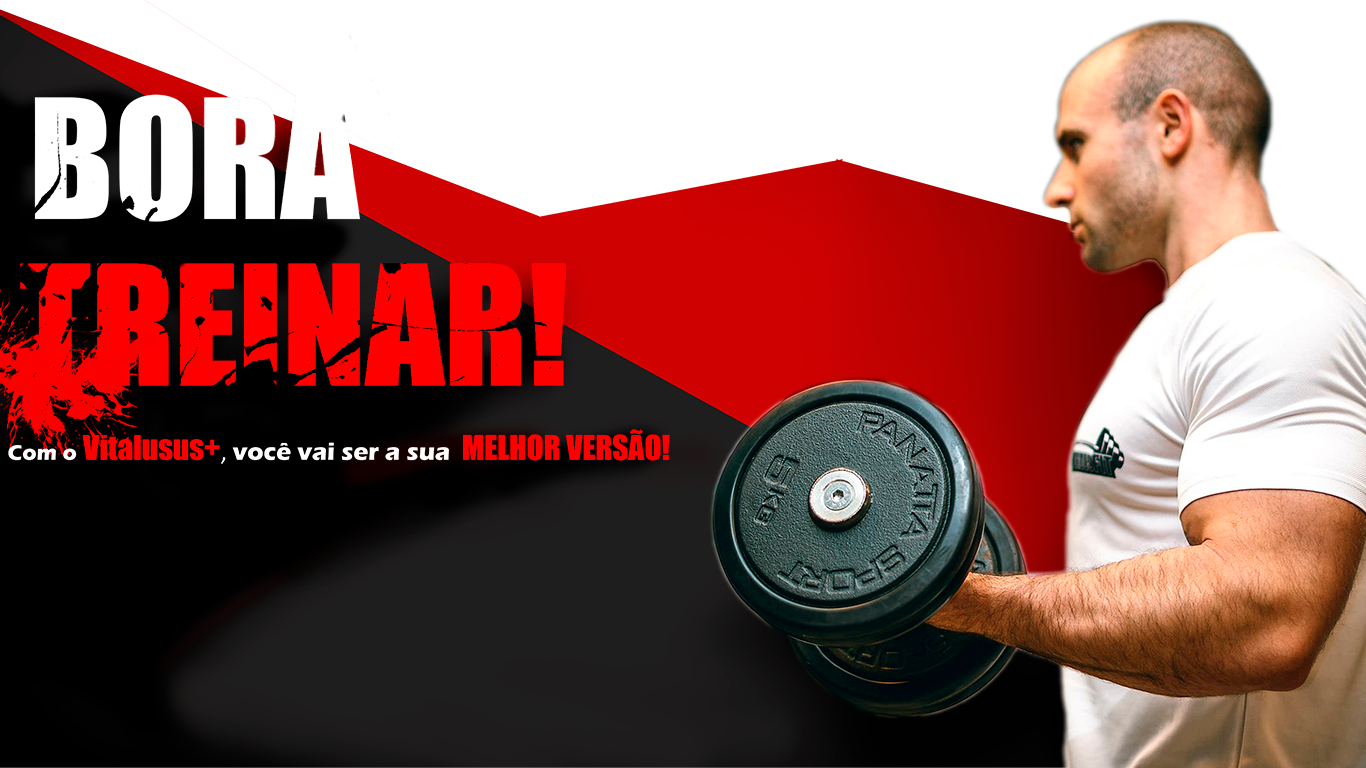
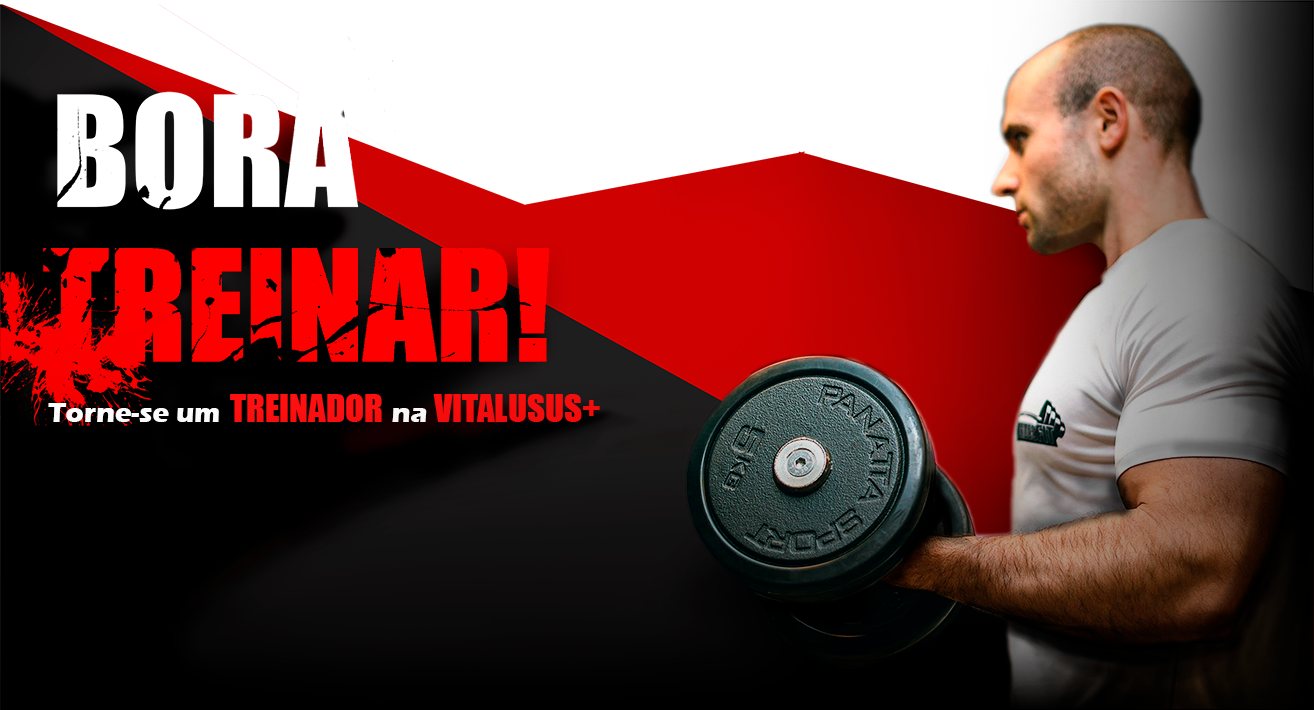
comecei a fazer a nova página index.html

diff --git a/VitalususPlus/src/main/resources/templates/index.html b/VitalususPlus/src/main/resources/templates/index.html
@@ -1,8 +1,10 @@
 <!DOCTYPE html>
-<html lang="pt-br">
+<html lang="pt-br" class="inicioHtml">
 
 <head>
     <meta charset="UTF-8">
+    <link rel="shortcut icon" href="/logo.ico" type="image/x-icon">
+    <link rel="shortcut icon" href="logo.ico" type="image/x-icon">
     <meta http-equiv="X-UA-Compatible" content="IE=edge">
     <meta name="viewport" content="width=device-width, initial-scale=1.0">
     <link rel="stylesheet" href="/Controller-CAD-LOG.css">
@@ -11,188 +13,35 @@
         href="https://fonts.googleapis.com/css2?family=Material+Symbols+Outlined:opsz,wght,FILL,GRAD@20..48,100..700,0..1,-50..200" />
     <link rel="stylesheet"
         href="https://fonts.googleapis.com/css2?family=Material+Symbols+Outlined:opsz,wght,FILL,GRAD@24,400,0,0" />
-    <title>Home Treinador</title>
+    <title>Vitlusus+ | Início</title>
 
  
 </head>
 
-<body onload="loading()">
+<body onload="loading()" class="inicioBody" onloadstart="setTopo()">
     <div class="carrega2">
         <div class="pre"></div>
     </div>
   <header>
-    <div class="imgLogo">
-        <img src="/Logo.png">
-      </div>
-      </div>
+        <img src="/Logo.png" class="imgLogo">
     </header>
+
     <div class="site">
-    <main class="main">
-     
 
-        <div class="content">
-
-            <div class="Rolls">
-
-              <input type="radio" name="roll" id="roll1" class="rollpequeno" checked="checked">
-
-              <input type="radio" name="roll" id="roll2" class="rollpequeno">
-
-              <input type="radio" name="roll" id="roll3" class="rollpequeno">
-
-              <input type="radio" name="roll" id="roll4" class="rollpequeno">
-
-
-                <div class="slide s1">
-
-                    <video alt="" loop id="auto" autoplay muted>
-                        <source src="/Run.mp4" type="video/mp4">
-                    </video>
-
-                    <div class="p1">
-
-                        <p>Aqui, você terá a oportunidade </p>
-
-                        <p>de melhorar sua vida atráves da</p>
-
-                        <p>prática de atividades físicas.</p>
-
-                    </div>
-
-                </div>
-
-                <div class="slide">
-
-                    <video alt="" loop id="auto" autoplay muted>
-                        <source src="/Medical.mp4" type="video/mp4">
-                    </video>
-
-                    <div class="p1">
-
-                        <p>Temos como objetivo principal</p>
-
-                        <p>garantir a saúde e bem-estar de</p>
-
-                        <p>todos.</p>
-
-                    </div>
-
-                </div>
-
-                <div class="slide">
-
-                    <video alt="" loop id="auto" autoplay muted >
-                        <source src="/Maratona.mp4" type="video/mp4">
-                    </video>
-
-                    <div class="p1">
-
-                        <p>As atividades físicas reduzem a</p>
-
-                        <p>mortalidade por todas as causas</p>
-
-                        <p>com uma redução de 19% a 21%</p>
-
-                    </div>
-
-                </div>
-
-                <div class="slide">
-
-                    <video alt="" loop id="auto" autoplay muted >
-                        <source src="/Treinador.mp4" type="video/mp4">
-                    </video>
-
-                    <div class="p1">
-
-                        <p>Você terá o benefício de ter </p>
-
-                        <p>treinadores especializados te</p>
-
-                        <p>ajudando!</p>
-
-                    </div>
-
-               
-
-                
-                </div>
-            </div>
+<div class="mulherDosBiceps">
+    <img src="/woman-teaching-biceps.png">
 </div>
 
-            <div class="navigation">
-
-                <label class="bar1" for="roll1"></label>
-
-                <label class="bar2" for="roll2"></label>
-
-                <label class="bar3" for="roll3"></label>
-
-                <label class="bar4" for="roll4"></label>
-
-            </div><!--fecha navigation-->
-            <!--fecha slide-->
-           
-         <!--fecha container-->
+    <div class="mulherDosBicepsContainer">
+        <img src="/backgroundVitalusus.jpg">
+        <div class="fundoTexto"></div>
+    </div>
         
-    </main>
+<div class="finalIndex">
+    <div class="fundoTexto"></div>
+    <img src="/poster1.png">
+</div>
 
-    <div class="escondido" id="SobreO">
-        <div class="p2">
-            <p class="p3">
-                Uma Rede para os <br />
-                interessados em <br />
-                uma vida mais  <br />
-                saudável </p>
-        </div>
-
-
-        <div class="LogoAjust">
-        <img src="/Logo.png" alt="">
-    </div>
-
-        <div class="Vitalusus">
-        <h2 class="a1">Vita</h2>
-        <h2 class="a2">Lusus+</h2>
-    </div>
-
-    </div>
-    <div class="comecar" >
-<div class="ajustH1">
-        
-    </div>
-        <div class="p3">
-            <p class="p4">
-                Para começar a <strong >v i v e r</strong><br/> de
-                forma mais saudável<br/> baixe
-                o nosso aplicativo<br/> para<br/>
-                <strong class="dispositivosStrong">____Android e IOS____</strong></p>
-                <a href="https://play.google.com/store/search?q=Vitalusus%2B&c=apps&hl=pt_BR&gl=US&pli=1">
-                <img src="">
-                </a>
-        </div>
-        <div class="PlayStore">
-            <a href="https://play.google.com/store/search?q=Vitalusus%2B&c=apps&hl=pt_BR&gl=US">
-            <img src="/playstore.png" alt="">
-        </a>
-        </div>
-        <div class="appStore">
-            <a href="https://www.apple.com/br/search/Vitalusus%2B?src=globalnav">
-            <img src="/maca.png">
-        </a>
-        </div>
-
-        <div class="treinadorAjust">
-        <h1>Como ser Treinador</h1>
-        <p class="p4">
-            Para ser um treinador, você <br />
-            precisa  ter um CREF e então
-             <br />
-            se <a class="fazerloginIndex"th:href="@{/Vitalusus-2h/Clientes/cadastrar}">cadastrar</a> ou  <a class="fazerloginIndex" th:href="@{/Vitalusus-2h/Clientes/login}"><span  class="destacar">fazer o </span><span class="destacar2">login</span></a> <br />
-            em nosso site</p>
-            </p>
-        </div>
-    </div>
 </div>
 </body>
 <script>
@@ -216,5 +65,12 @@
       document.getElementsByClassName("carrega2")[0].style.display="none";
       document.getElementsByClassName("site")[0].style.display="block";
     }
+    function setTopo(){
+        var _carrega = document.getElementsByClassName("carrega2")[0];
+        if(_carrega.style.display!="none"){
+            $(window).scrollTop(0);
+        }
+}
+$(window).bind('scroll', setTopo);
   </script>
 </html>

diff --git a/VitalususPlus/src/main/resources/static/Controller-CAD-LOG.css b/VitalususPlus/src/main/resources/static/Controller-CAD-LOG.css
@@ -9,6 +9,15 @@ html,body{
     padding: 0;
     box-sizing: border-box;
 }
+.inicioBody{
+    width: 100%;
+    height:100%;
+    background: #030303;
+}
+.inicioHtml{
+    width: 100%;
+    height:624.86979166667%;
+}
 body {
     background: rgb(0,0,0);
     background: linear-gradient(324deg,rgba(0, 0, 0, 0.938) 20%, rgba(0, 0, 0, 0.377) 96%),url("backgroundVitalusus.jpg");
@@ -69,6 +78,7 @@ footer {
 }
 .carrega{
     position: absolute;
+    position: fixed;
     width: 100%;
     height: 100%;
     background-color: rgb(12,12,12);
@@ -80,6 +90,7 @@ footer {
 .carrega2{
     top: 0%;
     position: absolute;
+    position: fixed;
     width: 100%;
     height: 100%;
     background-color: rgb(12,12,12);
@@ -92,6 +103,7 @@ footer {
     to{transform: rotate(360deg)}
 }
 .pre{
+    position: fixed;
     width: 13%;
     height: 13%;
     background-image:url("loading.png");
@@ -1480,7 +1492,7 @@ color:black;
   border-color: #555 transparent transparent transparent;
 }
 
-/* Toggle this class when clicking on the popup container (hide and show the popup) */
+/* POPUP DO MAL */
 .popup .show {
   visibility: visible;
   -webkit-animation: fadeIn 1s;
@@ -1497,4 +1509,63 @@ color:black;
   from {opacity: 0;}
   to {opacity:1 ;}
 }
-    
+
+/*INDEX NOVO*/
+.mulherDosBicepsContainer{
+    background: rgba(217,0,0,0.88);
+    overflow: hidden;
+    position: relative;
+    position: absolute;
+    top: 116.53645833333%;
+    width: 100%;
+    height: 54.166666666667%;
+}
+
+.mulherDosBicepsContainer img{
+    width: 100%;
+    height: 115.38461538462%;
+    position: absolute;
+    top: -15.384615384615%;
+    opacity: 0.29;
+}
+.mulherDosBicepsContainer .fundoTexto{
+    position: absolute;
+    right: 58.125915080527%;
+    height: 100%;
+    width: 41.874084919473%;
+    background-color: #000;
+    opacity:0.48;
+}
+.mulherDosBiceps{
+    position: relative;
+    position: absolute;
+    top: 116.53645833333%;
+    width: 100%;
+    height: 54.166666666667%;
+}
+.mulherDosBiceps img{
+    position: absolute;
+    left: 68.228404099561%;
+    top: -41.346153846154%;
+    width: 31.771595900439%;
+    height: 141.34615384615%;
+    z-index: 2;
+}
+.finalIndex{
+    position: relative;
+    position: absolute;
+    top: 539.453125%;
+    width: 100%;
+    height:85.416666666667%;
+}
+.finalIndex img{
+    width: 79.062957540264%;
+    height: 100%;
+}
+.finalIndex .fundoTexto{
+    position: absolute;
+    height: 100%;
+    width: 21.888726207906%;
+    left: 78.111273792094%;
+    background-color: rgb(10,10,10);
+}
